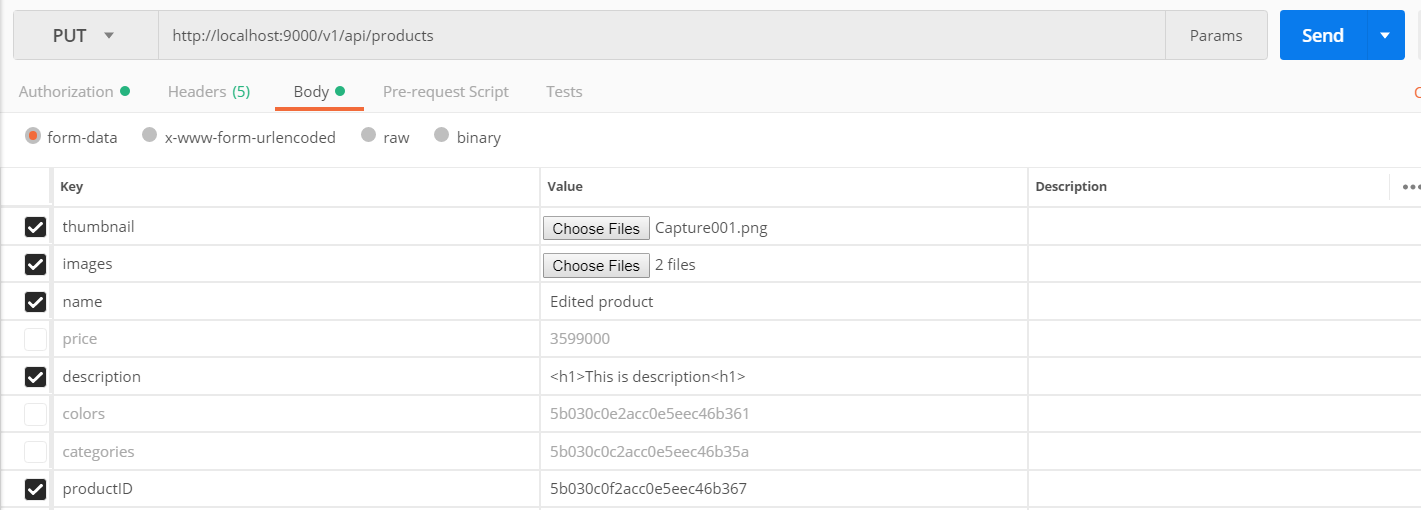
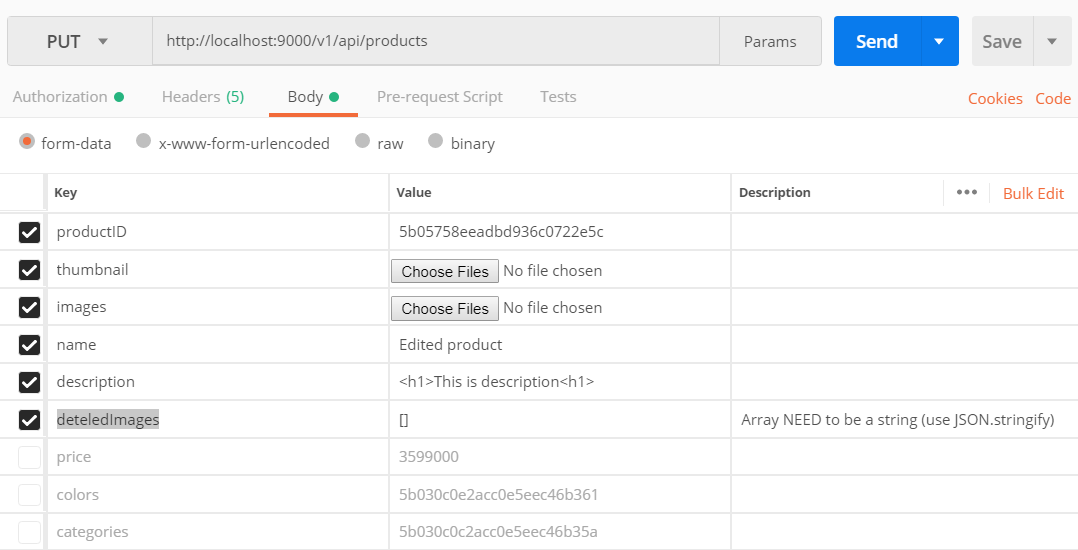
Fix update product router: *Err if you parse deletedImages

diff --git a/routes/api/productsRouter.js b/routes/api/productsRouter.js
@@ -5,7 +5,7 @@ const _ = require('lodash')
 const CONST = require('../../constants');
 const formidable = require('formidable')
 const path = require('path')
-// mongoose = require('mongoose').set('debug', true);
+mongoose = require('mongoose').set('debug', true);
 
 router.get('/', getProducts);
 router.get('/:productId', getProductById);
@@ -114,7 +114,7 @@ function editProduct(req, res, next) {
 
 
     form.parse(req, (err, fields, files) => {
-        // console.log(files);
+        // console.log(fields);
         if (err) return next(err);
         // if (!req.user) return next('Need to login first')
 
@@ -125,11 +125,21 @@ function editProduct(req, res, next) {
             description: fields.description,
             // author: req.user._id,
         };
-        let deteledImages = fields.deteledImages;
+        let deteledImages =null;
+        if (deteledImages)
+        try {
+            deteledImages = JSON.parse(fields.deteledImages);;
+        } catch (err) {
+            console.log(err);
+            return res.send(err)
+        }
+        // console.log(deteledImages);
+
         let oldImages = null;
         let newlyAddedImages = [];
         if (fields.categories) productInfo.categories = _.flatten([fields.categories]);
-        if (deteledImages) deteledImages = _.flatten([fields.deteledImages]);
+        if (deteledImages) deteledImages = _.flatten([deteledImages]);
+        // console.log('deteledImages.length='+deteledImages.length);
         if (fields.colors) productInfo.colors = _.flatten([fields.colors]);
         // console.log(fields);
         // if (!editedImagesList.length && !files.images) return next('Did not upload enough images')
@@ -146,31 +156,29 @@ function editProduct(req, res, next) {
 
         // productInfo.images = editedImagesList;\♥
         productsModel.findById(fields.productID).lean().exec((err, result) => {
-            // console.log(err);
-            if (err) return next(err);
-            // console.log(result);
+            if (err) return res.send(err);
             oldImages = result.images;
+            productInfo.images = [..._.difference(oldImages, deteledImages), ...newlyAddedImages];
+            if (!productInfo.images.length) return next('Did not upload enough images')
+
+            let query = {
+                _id: fields.productID
+            }
+            productsModel.updateOne(query, productInfo)
+                .then((result) => {
+                    // console.log(result);
+                    res.send(result);
+                })
+                .catch(err => res.send(err));
+
         })
-        productInfo.images = [..._.difference(oldImages, deteledImages), ...newlyAddedImages];
-
-        if (!productInfo.images.length) return next('Did not upload enough images')
-
-        let query = {
-            _id: fields.productID
-        }
-        productsModel.updateOne(query, productInfo)
-            .then((result) => {
-                // console.log(result);
-                res.send(result);
-            })
-            .catch(err => next(err));
 
         // console.log(productInfo);
     });
 }
 
 function deleteProduct(req, res, next) {
-    if(!req.body.productID) return next('Id not found')
+    if (!req.body.productID) return next('Id not found')
     productsModel.findOneAndRemove(req.body.productID)
         .then((result) => {
             res.send(result);

diff --git a/routes/api/userRouter.js b/routes/api/userRouter.js
@@ -3,7 +3,6 @@ var router = express.Router();
 const usersModel = require('../../models/db/users')
 const _ = require('lodash')
 const md5 = require('md5');
-
 var passport = require('passport'),
     LocalStrategy = require('passport-local').Strategy;
 
